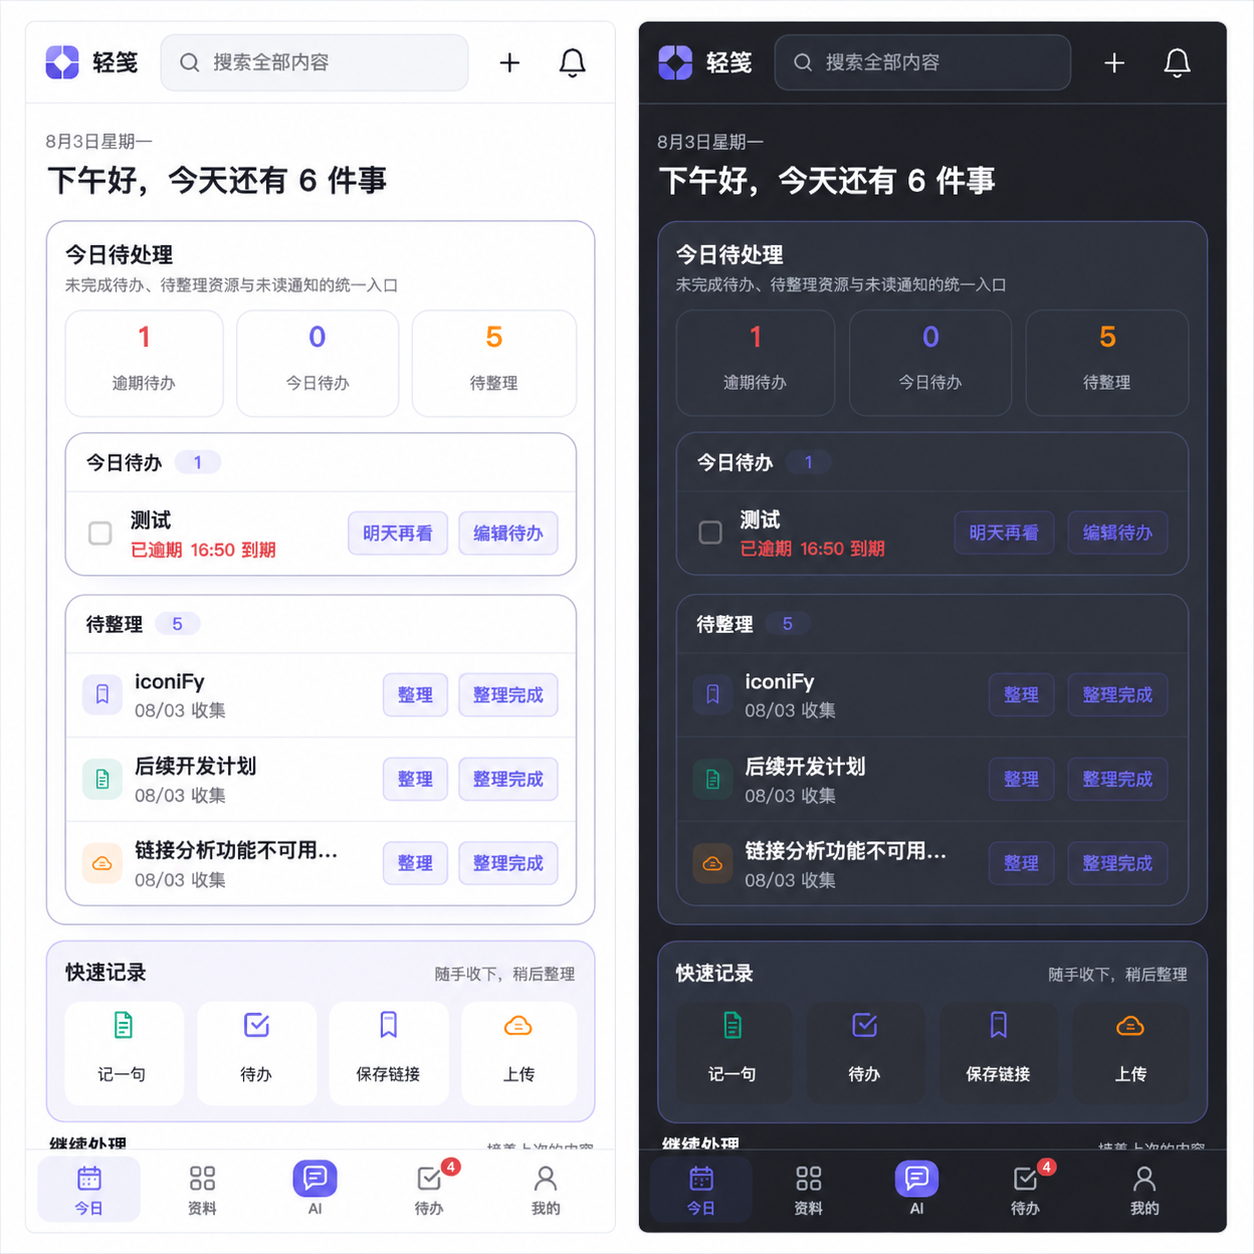
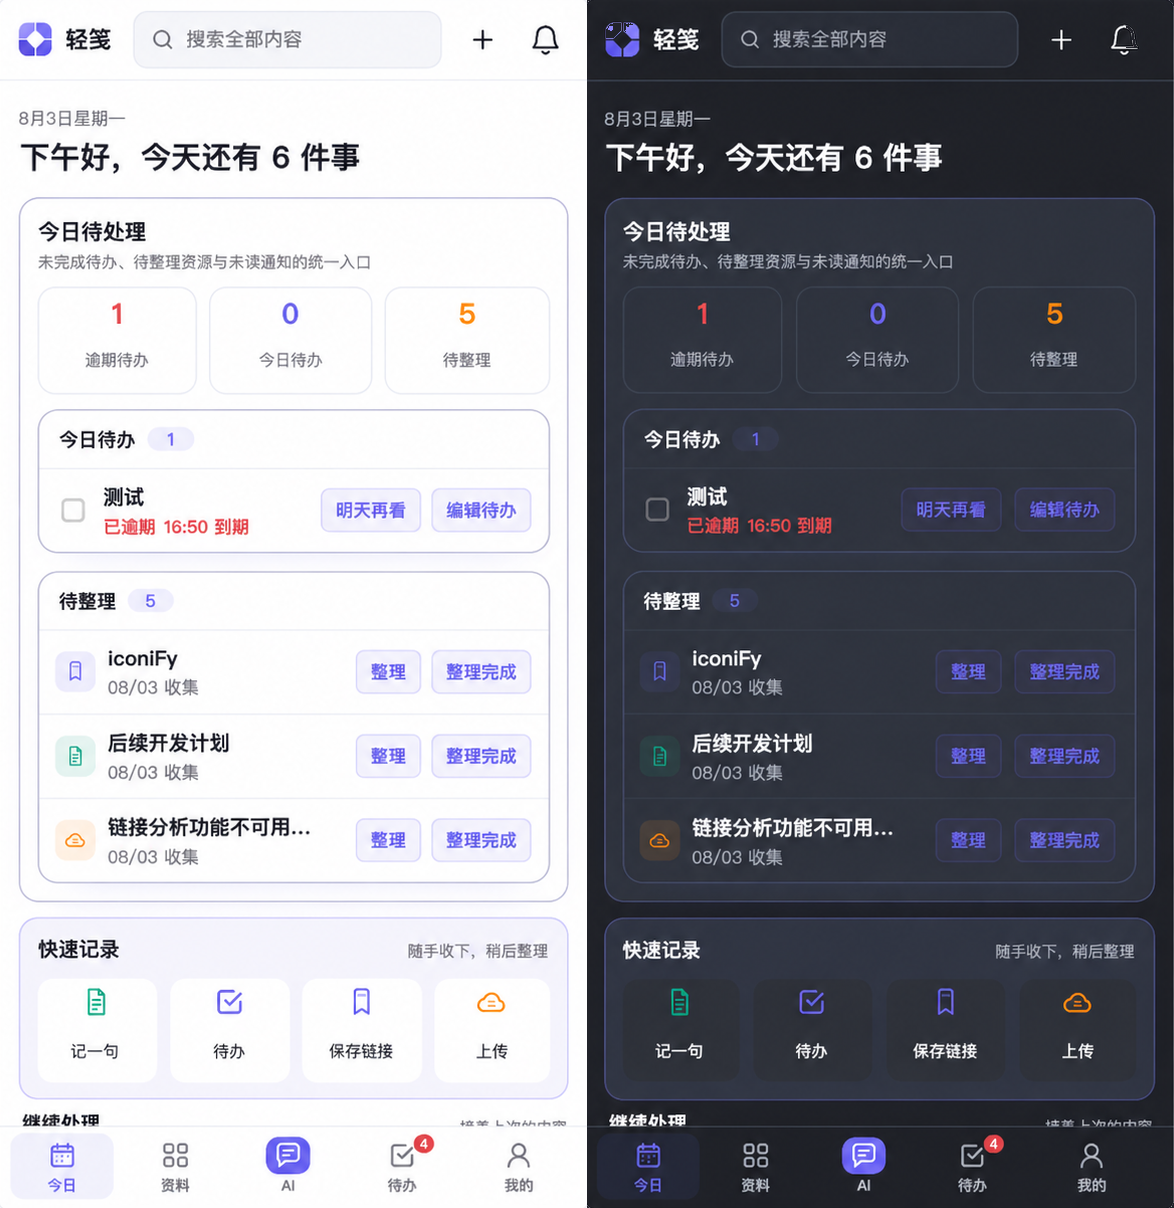
fix(ui): 修复消息离场残留、PDF 导出 color-mix 报错与 AI 材料区换行
BMessage 离场改为纯 CSS 两阶段(先标记 is-leaving 播动画,到时再 splice)。
原先交给 TransitionGroup,在本组件「手动 render 挂载 + 自引用 Teleport」的结构下
摘不掉离场节点,消息从 state 移除后 DOM 仍留在屏幕上。同时正在淡出的那条不再
参与去重,否则新提示会被并进一条即将消失的消息里,用户看不到本次操作的反馈。

htmlToPdf 把 color(srgb …) 改写成 rgb()/rgba()。html2canvas 的颜色解析器只认
老式记法,而全站大量使用 color-mix(in srgb, …),Chromium 正是把它的计算值序列化
成 color(),解析器遇到就直接抛错、整份导出失败。只转 srgb 色彩空间,其余原样保留,
免得用错误的分量换算悄悄改变颜色。

ChatInputSection 用 display: contents 摊平 AiContextPicker 包装层,让已选 chips
与「@添加资源」「上传文件」成为同一个 wrap 流的成员;此前 picker 自身是 flex-wrap
容器,chips 换行时会撑满整行,把两个入口按钮一起挤到下一行。

Landing 更新移动端截图,并把 aspect-ratio 按单台截图的真实像素比 587/1208 修正,
避免 object-fit: fill 拉伸变形。

diff --git a/apps/web/src/components/base/BasicComponents/BMessage/BMessageContainer.vue b/apps/web/src/components/base/BasicComponents/BMessage/BMessageContainer.vue
@@ -1,20 +1,26 @@
 <template>
   <Teleport to="body">
+    <!--
+      入场动画用纯 CSS animation,节点增删交回 Vue 核心 patch,不要再包 <TransitionGroup>。
+      原实现用 TransitionGroup 做进出场,但在「手动 render() 挂载 + 自引用 Teleport」这套结构下,
+      它的离场节点永远摘不掉:消息已从 messageState 移除,DOM 节点却留在屏幕上,而且一个卡住的
+      节点会连带后续消息也移除不掉。表现就是提示层层堆积、`duration: 0` 的 loading 永久转圈
+      (笔记导出 PDF 就是这条路径)。已验证与 HMR 无关,`:duration`、去掉 v-show、去掉 Teleport 均无效。
+      代价是没有离场动画 —— 提示消失不需要动画,而"关不掉"是功能缺陷,优先保证它一定消失。
+    -->
     <div class="b-message-container" v-show="messageState.messages.length > 0" aria-live="polite" aria-atomic="false">
-      <TransitionGroup name="b-message">
-        <div
-          v-for="msg in messageState.messages"
-          :key="msg.key || msg.id"
-          :class="['b-message-item', `b-message-${msg.type}`]"
-          :role="msg.type === 'error' || msg.type === 'warning' ? 'alert' : 'status'"
-          @click="dismissOnMobile(msg.id)"
-        >
-          <span class="b-message-icon" aria-hidden="true">
-            <SvgIcon :src="messageIcons[msg.type]" size="17" :class="{ 'b-message-spin': msg.type === 'loading' }" />
-          </span>
-          <span class="b-message-content">{{ msg.content }}</span>
-        </div>
-      </TransitionGroup>
+      <div
+        v-for="msg in messageState.messages"
+        :key="msg.key || msg.id"
+        :class="['b-message-item', `b-message-${msg.type}`, { 'is-leaving': msg.leaving }]"
+        :role="msg.type === 'error' || msg.type === 'warning' ? 'alert' : 'status'"
+        @click="dismissOnMobile(msg.id)"
+      >
+        <span class="b-message-icon" aria-hidden="true">
+          <SvgIcon :src="messageIcons[msg.type]" size="17" :class="{ 'b-message-spin': msg.type === 'loading' }" />
+        </span>
+        <span class="b-message-content">{{ msg.content }}</span>
+      </div>
     </div>
   </Teleport>
 </template>
@@ -76,6 +82,7 @@
     font-size: 13.5px;
     line-height: 1.45;
     pointer-events: auto;
+    animation: b-message-in 0.24s cubic-bezier(0.34, 1.56, 0.64, 1);
   }
 
   .b-message-item::before {
@@ -124,23 +131,52 @@
     font-weight: 560;
   }
 
-  /* Enter / leave animations */
-  .b-message-enter-active {
-    transition: all 0.24s cubic-bezier(0.34, 1.56, 0.64, 1);
+  /* 进出场都用纯 CSS animation:节点一插入就播入场,标记 is-leaving 就播离场,不依赖 Vue 过渡钩子。
+     离场期间节点仍在 messageState 里(见 messageState.ts 的 LEAVE_ANIMATION_MS),动画放完才被摘除。 */
+  @keyframes b-message-in {
+    from {
+      opacity: 0;
+      transform: translateY(-20px) scale(0.96);
+    }
   }
 
-  .b-message-leave-active {
-    transition: all 0.2s ease-out;
+  @keyframes b-message-in-from-bottom {
+    from {
+      opacity: 0;
+      transform: translateY(20px) scale(0.96);
+    }
   }
 
-  .b-message-enter-from {
-    opacity: 0;
-    transform: translateY(-20px) scale(0.96);
+  @keyframes b-message-out {
+    to {
+      opacity: 0;
+      transform: translateY(-10px) scale(0.97);
+    }
   }
 
-  .b-message-leave-to {
-    opacity: 0;
-    transform: translateY(-10px) scale(0.97);
+  @keyframes b-message-out-to-bottom {
+    to {
+      opacity: 0;
+      transform: translateY(10px) scale(0.97);
+    }
+  }
+
+  @keyframes b-message-fade-in {
+    from {
+      opacity: 0;
+    }
+  }
+
+  @keyframes b-message-fade-out {
+    to {
+      opacity: 0;
+    }
+  }
+
+  /* forwards 保住终态,避免动画结束到节点摘除之间闪回不透明 */
+  .b-message-item.is-leaving {
+    animation: b-message-out 0.2s ease-out forwards;
+    pointer-events: none;
   }
 
   /* Loading spin animation */
@@ -208,20 +244,23 @@
       display: none;
     }
 
-    /* 底部弹出:进出动画改为从下方滑入/滑出 */
-    .b-message-enter-from {
-      transform: translateY(20px) scale(0.96);
+    /* 底部弹出:进出场都改为从下方滑入/滑出 */
+    .b-message-item {
+      animation-name: b-message-in-from-bottom;
     }
 
-    .b-message-leave-to {
-      transform: translateY(10px) scale(0.97);
+    .b-message-item.is-leaving {
+      animation-name: b-message-out-to-bottom;
     }
   }
 
   @media (prefers-reduced-motion: reduce) {
-    .b-message-enter-active,
-    .b-message-leave-active {
-      transition: opacity 0.15s ease;
+    .b-message-item {
+      animation: b-message-fade-in 0.15s ease;
+    }
+
+    .b-message-item.is-leaving {
+      animation: b-message-fade-out 0.15s ease forwards;
     }
 
     .b-message-spin {

diff --git a/apps/web/src/utils/htmlToPdf.ts b/apps/web/src/utils/htmlToPdf.ts
@@ -46,6 +46,74 @@ export function forcePdfLightTheme(clonedDocument: Document) {
   clonedDocument.documentElement?.setAttribute('data-theme', 'day');
 }
 
+/** 会被 html2canvas 解析的纯色属性。`background-image` 另外处理:渐变里也可能嵌 color()。 */
+const COLOR_PROPERTIES = [
+  'color',
+  'background-color',
+  'border-top-color',
+  'border-right-color',
+  'border-bottom-color',
+  'border-left-color',
+  'outline-color',
+  'text-decoration-color',
+  'caret-color',
+  'column-rule-color',
+  'fill',
+  'stroke',
+  'background-image',
+];
+
+/** `color(srgb r g b / a)` —— Chromium 对 color-mix() 计算结果的序列化形式。 */
+const SRGB_COLOR_FUNCTION = /color\(\s*srgb\s+([\d.eE+-]+)\s+([\d.eE+-]+)\s+([\d.eE+-]+)\s*(?:\/\s*([\d.eE+-]+%?)\s*)?\)/gi;
+
+/**
+ * 把 CSS Color 4 的 `color(srgb …)` 改写成等价的 `rgb()/rgba()`。
+ *
+ * html2canvas 的颜色解析器只认老式记法,遇到 `color(` 会直接抛
+ * `Attempting to parse an unsupported color function "color"`,整份导出失败。
+ * 而全站大量使用 `color-mix(in srgb, …)`,Chromium 正是把它的计算值序列化成这种形式。
+ * 只转 srgb 色彩空间:项目的 color-mix 统一写 `in srgb`,其他色彩空间原样留下,
+ * 免得用错误的分量换算悄悄改变颜色。
+ */
+export function replaceUnsupportedColorFunctions(value: string): string {
+  return value.replace(SRGB_COLOR_FUNCTION, (matched, r: string, g: string, b: string, a?: string) => {
+    const channels = [r, g, b].map((channel) => {
+      const parsed = Number(channel);
+      if (!Number.isFinite(parsed)) return null;
+      return Math.max(0, Math.min(255, Math.round(parsed * 255)));
+    });
+    if (channels.some((channel) => channel === null)) return matched;
+    const rgb = channels.join(', ');
+    if (a == null) return `rgb(${rgb})`;
+    const alpha = a.endsWith('%') ? Number(a.slice(0, -1)) / 100 : Number(a);
+    if (!Number.isFinite(alpha)) return matched;
+    return alpha >= 1 ? `rgb(${rgb})` : `rgba(${rgb}, ${alpha})`;
+  });
+}
+
+/**
+ * 遍历克隆文档,把带 `color()` 的计算值就地固化成 html2canvas 认识的记法。
+ *
+ * 必须在 forcePdfLightTheme 之后调用:此时读到的才是 PDF 实际要呈现的浅色主题取值。
+ * 只写克隆树的 inline style,用户页面不受影响。
+ */
+function normalizeUnsupportedColorFunctions(clonedDocument: Document) {
+  const view = clonedDocument.defaultView;
+  // 拿不到 window 就没法取计算值;跳过而不是让导出失败(最差回到原来的报错)
+  if (!view) return;
+
+  clonedDocument.querySelectorAll<HTMLElement>('*').forEach((element) => {
+    if (!element.style) return;
+    const computed = view.getComputedStyle(element);
+    COLOR_PROPERTIES.forEach((property) => {
+      const value = computed.getPropertyValue(property);
+      if (!value || !value.includes('color(')) return;
+      const replaced = replaceUnsupportedColorFunctions(value);
+      if (replaced !== value) element.style.setProperty(property, replaced, 'important');
+    });
+  });
+}
+
 /**
  * 渲染期间把目标元素宽度固定为「纸张内容宽」,结束后恢复。
  *
@@ -231,6 +299,8 @@ async function renderPdfDocument(selector: string, options: PDFOptions): Promise
           backgroundColor: '#FFFFFF',
           onclone: (clonedDocument: Document) => {
             forcePdfLightTheme(clonedDocument);
+            // 顺序有意义:先定浅色主题,再固化颜色计算值,最后才替换勾选框(它会改动 DOM 结构)
+            normalizeUnsupportedColorFunctions(clonedDocument);
             replacePdfCheckboxes(clonedDocument);
           },
         }),

diff --git a/apps/web/src/components/base/BasicComponents/BMessage/BMessage.test.ts b/apps/web/src/components/base/BasicComponents/BMessage/BMessage.test.ts
@@ -7,7 +7,7 @@ vi.mock('./BMessageContainer.vue', () => ({
 }));
 
 import message from './BMessage';
-import { messageState, removeMessage } from './messageState';
+import { LEAVE_ANIMATION_MS, messageState, removeMessage } from './messageState';
 
 const originalMatchMedia = window.matchMedia;
 
@@ -54,6 +54,7 @@ describe('BMessage mobile behavior', () => {
   });
 
   it('supports dismissing a message and only invokes onClose once', () => {
+    vi.useFakeTimers();
     setMobileViewport(true);
     const onClose = vi.fn();
     message.info('可以点击关闭', 0, onClose);
@@ -62,7 +63,29 @@ describe('BMessage mobile behavior', () => {
 
     removeMessage(id as number);
     removeMessage(id as number);
+    // 离场期间节点保留在 state 里,纯 CSS 才有机会播完淡出;重复调用不重复计时
+    expect(messageState.messages).toHaveLength(1);
+    expect(messageState.messages[0]?.leaving).toBe(true);
+    expect(onClose).not.toHaveBeenCalled();
+
+    vi.advanceTimersByTime(LEAVE_ANIMATION_MS);
     expect(messageState.messages).toHaveLength(0);
     expect(onClose).toHaveBeenCalledTimes(1);
+  });
+
+  it('does not merge a new message into one that is already leaving', () => {
+    vi.useFakeTimers();
+    setMobileViewport(true);
+    message.success('删除成功');
+    const first = messageState.messages[0]?.id as number;
+    removeMessage(first);
+
+    // 上一条正在淡出时又触发同样的提示,必须真的新建一条,否则这次操作没有反馈
+    message.success('删除成功');
+    expect(messageState.messages.filter((item) => !item.leaving)).toHaveLength(1);
+
+    vi.advanceTimersByTime(LEAVE_ANIMATION_MS);
+    expect(messageState.messages).toHaveLength(1);
+    expect(messageState.messages[0]?.leaving).toBeFalsy();
   });
 });

diff --git a/apps/web/src/components/base/BasicComponents/BMessage/messageState.ts b/apps/web/src/components/base/BasicComponents/BMessage/messageState.ts
@@ -9,7 +9,18 @@ export interface MessageItem {
   duration: number;
   key?: string;
   onClose?: () => void;
+  /** 正在播放离场动画。此时节点仍在 DOM 里,只是不再参与去重、也不响应点击。 */
+  leaving?: boolean;
 }
+
+/**
+ * 离场动画时长,必须与 BMessageContainer 里 `.b-message-item.is-leaving` 的 animation 时长一致。
+ *
+ * 离场做成两阶段(先标记 leaving 让 CSS 播动画,到时再真正 splice)而不是交给 Vue 的
+ * <TransitionGroup>:后者在本组件「手动 render() 挂载 + 自引用 Teleport」的结构下摘不掉离场节点,
+ * 消息从 state 移除后 DOM 仍留在屏幕上(详见 BMessageContainer 的注释)。
+ */
+export const LEAVE_ANIMATION_MS = 200;
 
 export interface MessageOpenConfig {
   content: string;
@@ -24,10 +35,17 @@ export const messageState = reactive({
 });
 
 export function removeMessage(id: number): void {
-  const index = messageState.messages.findIndex((message) => message.id === id);
-  if (index === -1) return;
-  const [message] = messageState.messages.splice(index, 1);
-  message.onClose?.();
+  const message = messageState.messages.find((item) => item.id === id);
+  // 已在离场中:不重复计时,也不重复触发 onClose
+  if (!message || message.leaving) return;
+  message.leaving = true;
+  window.setTimeout(() => {
+    const index = messageState.messages.findIndex((item) => item.id === id);
+    // clearMessages() 可能已经把它清掉了
+    if (index === -1) return;
+    const [removed] = messageState.messages.splice(index, 1);
+    removed.onClose?.();
+  }, LEAVE_ANIMATION_MS);
 }
 
 export function clearMessages(): void {

diff --git a/apps/web/src/view/landing/Landing.vue b/apps/web/src/view/landing/Landing.vue
@@ -448,7 +448,7 @@
       key: 'mobile',
       label: t('landing.tabMobile'),
       // public 静态资源不会由 Vite 自动生成内容哈希；图片替换后同步更新版本，避免浏览器继续展示旧图。
-      png: '/screenshots/mobile.png?v=a04898845ef1',
+      png: '/screenshots/mobile.png?v=531585f78bd6',
       aspect: MOBILE_STAGE_ASPECT,
     },
     {
@@ -1090,7 +1090,8 @@
     position: relative;
     flex: 0 0 auto;
     height: 92%;
-    aspect-ratio: 1 / 2;
+    /* 与 mobile.png 里单台截图的真实像素比一致（587 × 1208），避免 object-fit: fill 拉伸变形 */
+    aspect-ratio: 587 / 1208;
     overflow: hidden;
     border: 1px solid rgba(255, 255, 255, 0.16);
     border-radius: clamp(12px, 1.4vw, 20px);
@@ -1115,8 +1116,9 @@
     height: 100%;
     object-fit: fill;
   }
+  /* 双联图两半严格等宽、无中缝，右半正好落在 -100%，不需要再补偿间隙像素 */
   .mobile-preview-device--dark img {
-    left: calc(-100% - 2px);
+    left: -100%;
   }
   .screen-glare {
     position: absolute;

diff --git a/apps/web/src/components/aiAssistant/ChatInputSection.vue b/apps/web/src/components/aiAssistant/ChatInputSection.vue
@@ -504,6 +504,23 @@
     margin-bottom: 6px;
   }
 
+  /*
+   * 材料区是「已选 chips + @添加资源 + 上传文件」一条连续的流。
+   * AiContextPicker 自己也是 flex-wrap 容器，chips 多到需要换行时它会撑满整行，
+   * 把同级的「上传文件」一起挤到再下一行 —— 于是明明还有空位，两个入口按钮却分居两行。
+   * 摊平这层包装，让 chips 与两个触发按钮成为同一个 wrap 流的成员：
+   * chips 占满前面的行，两个按钮并排跟在最后一行。
+   * 只作用于桌面容器内，移动端的 AiContextPicker 在材料抽屉里，不受影响。
+   */
+  .context-actions > :deep(.ai-context-picker) {
+    display: contents;
+  }
+
+  /* 摊平后 chips 直接受 .context-actions 的 flex-start 约束，与同行按钮居中对齐 */
+  .context-actions :deep(.ai-context-chips) {
+    align-self: center;
+  }
+
   .mobile-context-actions {
     display: none;
   }

diff --git a/apps/web/src/components/base/BasicComponents/BMessage/BMessage.ts b/apps/web/src/components/base/BasicComponents/BMessage/BMessage.ts
@@ -35,7 +35,11 @@ function resolveDuration(type: MessageType, duration?: number): number {
 
 function suppressDuplicateMobileMessage(type: MessageType, content: string): (() => void) | null {
   if (!isMobileMessageViewport()) return null;
-  const existing = messageState.messages.find((message) => message.type === type && message.content === content);
+  // 正在播离场动画的那条不算「已存在」:否则新提示会被并进一条即将消失的消息里,
+  // 用户看不到这次操作的反馈
+  const existing = messageState.messages.find(
+    (message) => message.type === type && message.content === content && !message.leaving,
+  );
   return existing ? () => removeMessage(existing.id) : null;
 }
 

diff --git a/apps/web/src/components/aiAssistant/AiNoteConfirmationPreview.vue b/apps/web/src/components/aiAssistant/AiNoteConfirmationPreview.vue
@@ -101,7 +101,6 @@
     box-sizing: border-box;
     border-radius: 8px;
     color: var(--text-color);
-    background: var(--card-background);
     font-size: 13px;
     line-height: 1.65;
     overscroll-behavior: contain;
